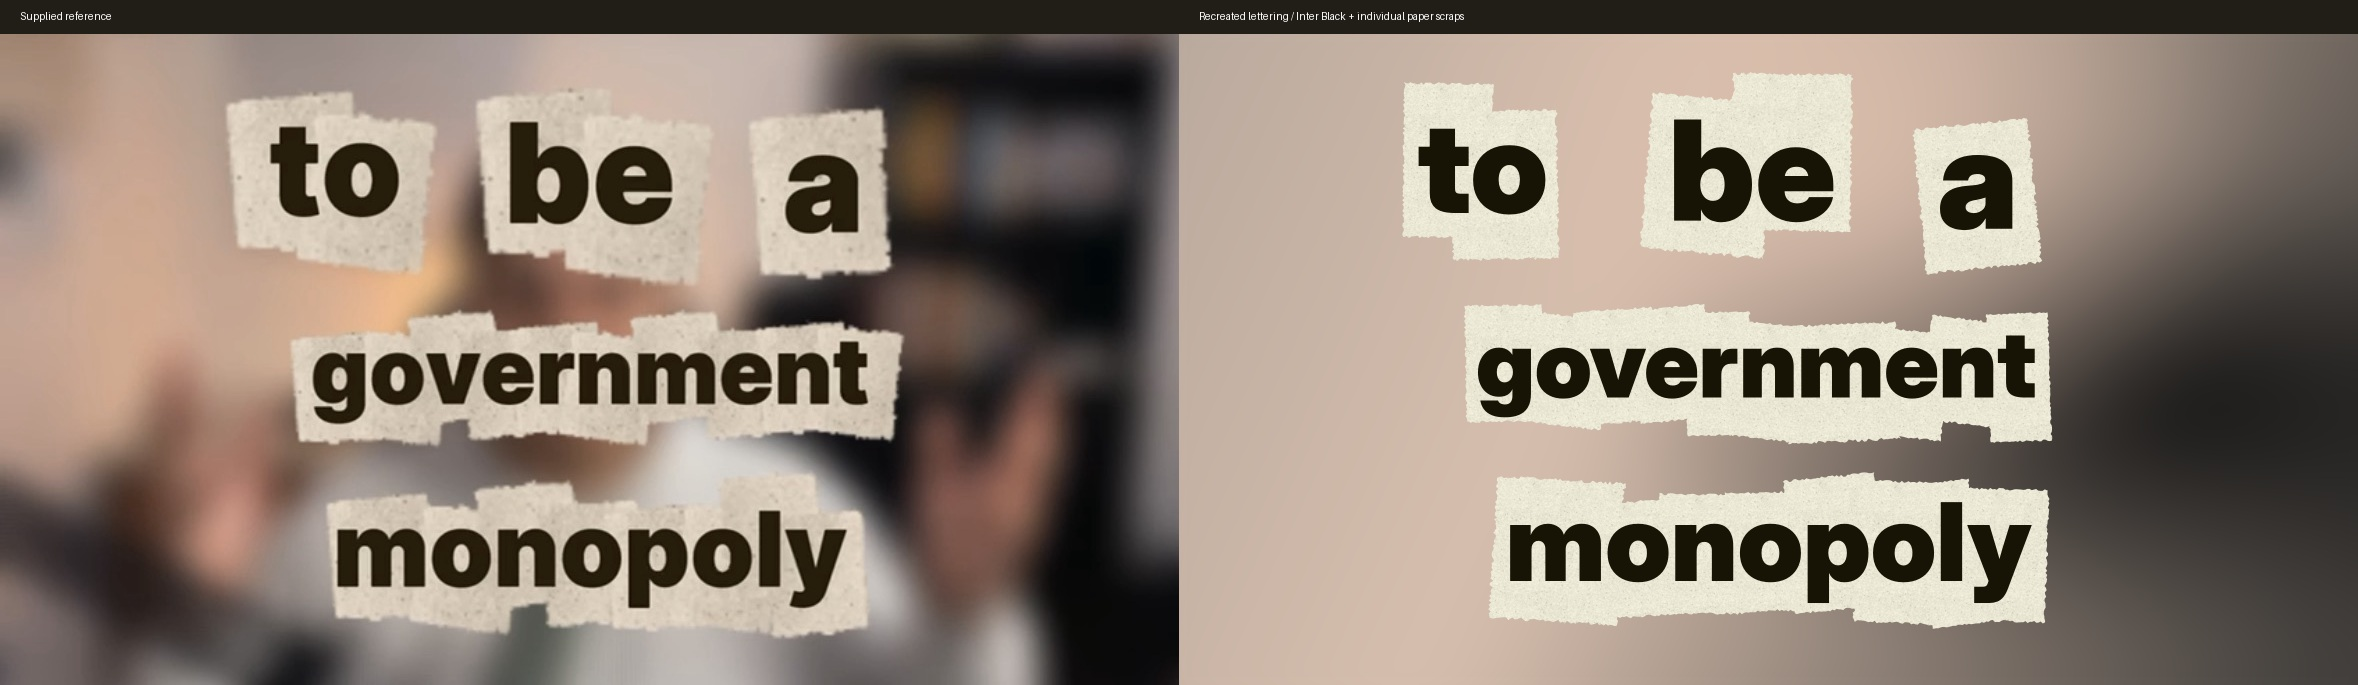
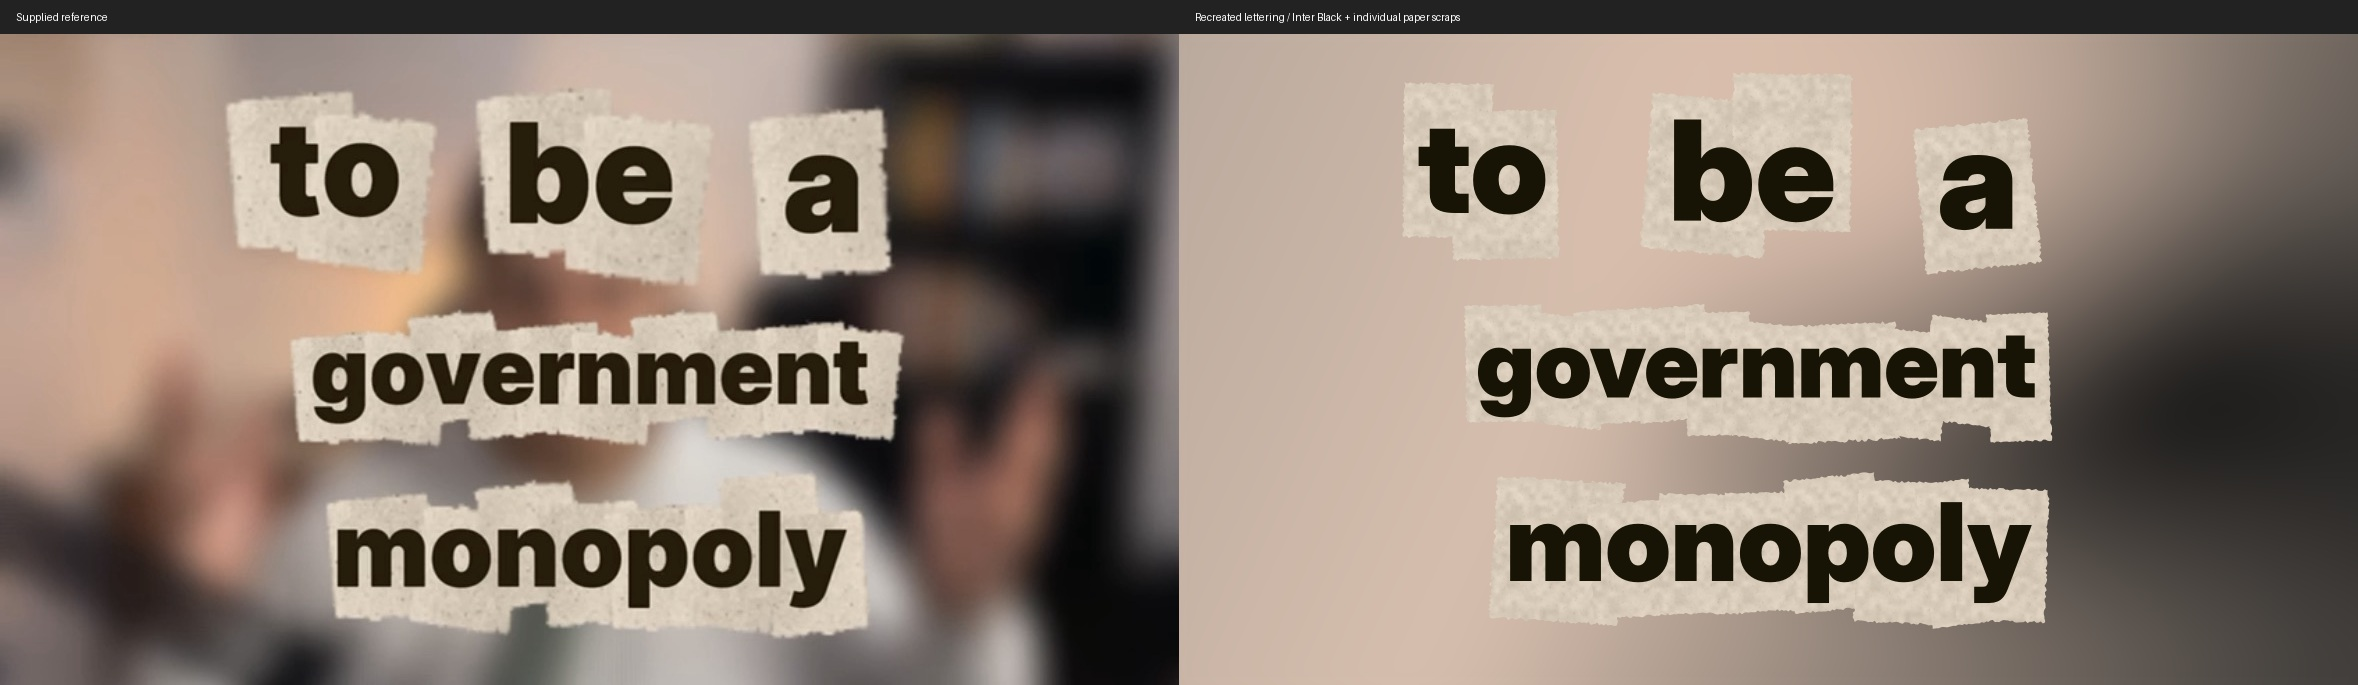
Match emphasis paper palette and soft fiber texture

diff --git a/assets/text/emphasis.js b/assets/text/emphasis.js
@@ -5,19 +5,37 @@
     n = Math.imul(n ^ (n >>> 13), 1274126177);
     return ((n ^ (n >>> 16)) >>> 0) / 4294967295;
   };
+  const softNoise = (x, y, scale, seed) => {
+    const px = x / scale, py = y / scale, ix = Math.floor(px), iy = Math.floor(py);
+    const fade = t => t * t * (3 - 2 * t);
+    const sx = fade(px - ix), sy = fade(py - iy);
+    const top = hash(ix, iy, seed) * (1 - sx) + hash(ix + 1, iy, seed) * sx;
+    const bottom = hash(ix, iy + 1, seed) * (1 - sx) + hash(ix + 1, iy + 1, seed) * sx;
+    return top * (1 - sy) + bottom * sy;
+  };
   const material = document.createElement('canvas');
   material.width = material.height = 256;
   const m = material.getContext('2d'), pixels = m.createImageData(256, 256);
   for (let y = 0; y < 256; y++) for (let x = 0; x < 256; x++) {
-    const noise = hash(x, y, 1873), cloud = hash(x >> 4, y >> 4, 727);
-    const grain = (noise - .5) * 21 + (cloud - .5) * 4 - (noise < .012 ? 28 : 0);
+    const mottles = (softNoise(x, y, 6, 1873) - .5) * 20;
+    const stock = (softNoise(x, y, 19, 727) - .5) * 10;
+    const fibers = (softNoise(x, y, 2.3, 3217) - .5) * 6;
+    const grain = mottles + stock + fibers + (hash(x, y, 913) - .5) * 2;
     const index = (y * 256 + x) * 4;
-    pixels.data[index] = 236 + grain;
-    pixels.data[index + 1] = 232 + grain;
-    pixels.data[index + 2] = 214 + grain;
+    pixels.data[index] = 216 + grain;
+    pixels.data[index + 1] = 203 + grain;
+    pixels.data[index + 2] = 186 + grain;
     pixels.data[index + 3] = 255;
   }
   m.putImageData(pixels, 0, 0);
+  // Sparse soft gray-brown flecks sit within the stock's diffuse mottling.
+  m.strokeStyle = 'rgba(100,86,68,.17)'; m.lineWidth = .8; m.lineCap = 'round';
+  m.shadowColor = 'rgba(100,86,68,.1)'; m.shadowBlur = .35;
+  for (let i = 0; i < 256 * 256 / 220; i++) {
+    const x = hash(i, 1, 5431) * 256, y = hash(i, 2, 5431) * 256;
+    m.beginPath(); m.moveTo(x, y);
+    m.lineTo(x + (hash(i, 3, 5431) - .5) * 2.4, y + hash(i, 4, 5431) * 1.8); m.stroke();
+  }
 
   function scrap(context, width, height, seed) {
     const points = [], rough = Math.min(width, height) * .028;

diff --git a/references/validation.md b/references/validation.md
@@ -8,5 +8,6 @@
 - Audio: all five asset hashes, durations, 48 kHz stereo PCM formats and true peaks verified. Waveforms were inspected; audio-input support was unavailable, so subjective ear-audition is not claimed.
 - Independent review: **GPT-6 Astra / ultra**, read-only, reviewed the complete original request, both attached images, uncommitted source, original rendering logic and rendered evidence. Its duplicate-heading finding was fixed, and sticker SFX timing was aligned to the 34% corner-anchor point. Final review reported no outstanding confirmed P1/P2 issue. The remaining suggestion is listening once alongside narration for subjective sound fit.
 - Text: bundled font identities/licenses checked; Portuguese accents and transparent 2× lettering rendered with identical hashes on repeated runs. A side-by-side comparison guided the individual paper offsets, heights and rotations. The phrase example passed strict HyperFrames checks, its timed snapshots showed cumulative words over a fading scene blur, and an actual 1920×1080/24 fps export retained the lettering. A separate **GPT-6 Astra / ultra** read-only review found no confirmed bug or missing text requirement.
+- Text material (2026-10-13): matched the supplied crop's warm beige stock and softer texture; refreshed comparisons and the 1920×1080/24 fps example export. Repeated PNG bytes, before/after alpha and all opaque ink pixels stayed identical. Strict HyperFrames checks passed; **GPT-6 Astra / ultra** read-only review found no blocking issue.
 
 Run `pnpm verify` for renderer invariants or `pnpm verify /path/to/generated-folder` to also verify its encoded size, frame rate and actual decoded WebM alpha. Original hand/ball visual workflows remain unchanged; only fixed sound instructions and broken resource paths were added/corrected.

diff --git a/references/text.md b/references/text.md
@@ -8,7 +8,7 @@ Normal text uses [Special Elite Regular](../assets/fonts/SpecialElite-Regular.tt
 node "$SKILL_ROOT/scripts/emphasis.mjs" "LIBERDADE" word.png --size 160
 ```
 
-The transparent PNG is rendered at 2× its logical font size for crisp scaling. It already includes the finished paper lettering; do not filter it again. Preserve wording/case unless the chosen emphasis pattern calls for uppercase. The seeded paper height, position, torn edge and rotation vary **per letter**; ink remains upright and sharp. Paper poses stay fixed while the word is visible.
+The transparent PNG is rendered at 2× its logical font size for crisp scaling. It already includes the finished paper lettering; do not filter it again. Preserve wording/case unless the chosen emphasis pattern calls for uppercase. Paper uses a warm beige base **RGB 216, 203, 186 (`#D8CBBA`)**, diffuse mottling and sparse soft gray-brown flecks ([material comparison](../assets/previews/emphasis-material-comparison.jpg)). The seeded paper height, position, torn edge and rotation vary **per letter**; ink remains upright and sharp. Paper poses stay fixed while the word is visible.
 
 For native HyperFrames canvas lettering, load [fonts.css](../assets/text/fonts.css) and [emphasis.js](../assets/text/emphasis.js), then:
 
